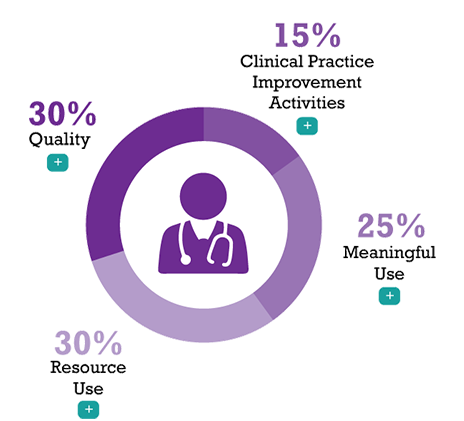
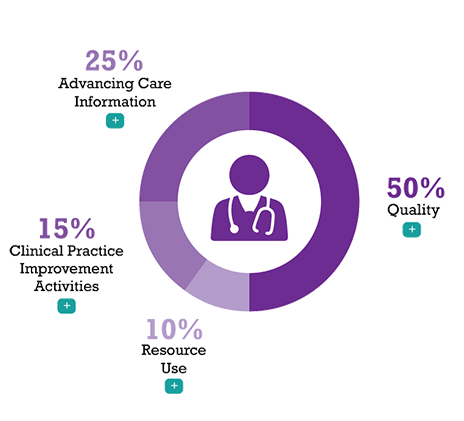
added piechart and map

Changed region(s): [[0.0, 0.0309, 0.9655, 1.0]]

diff --git a/modals/proposed_rule.html b/modals/proposed_rule.html
@@ -8,7 +8,7 @@
       <div class="modal-body">
        The Centers for Medicare and Medicaid Services (CMS) has issued proposed regulations around MACRA. 
        SHM is reviewing the proposals and will be providing comments back to CMS. 
-       As the rules are finalized later this year, this site will be update with more information about the programs and what you need to do. 
+       As the rules are finalized later this year, this site will be updated with more information about the programs and what you need to do. 
        For more information about the proposed rule, read CMS&rsquo; <a href="https://www.cms.gov/Medicare/Quality-Initiatives-Patient-Assessment-Instruments/Value-Based-Programs/MACRA-MIPS-and-APMs/NPRM-QPP-Fact-Sheet.pdf">Fact Sheet</a>.
       </div>
       <div class="modal-footer">

diff --git a/index.php b/index.php
@@ -181,15 +181,14 @@
                     For the elements built from existing programs, such as PQRS, the physician value-based payment modifier, and Meaningful Use, hospitalists can expect similar policies in the MIPS. However, <a href="" data-toggle="modal" data-target="#cms">CMS</a> will be issuing the 
                     foundational rules for the MIPS this year which will provide more detail and clarity to the program. Although the proportional weights of the domains can change, generally MIPS scoring will be based on a combination of 
                     performance across these areas.</p>
-                    <p style="margin-top:20px;font-size:1.4em;"><strong style="color:purple">Breakdown of the MIPS Categories</strong></p>
+                    <p style="margin-top:20px;font-size:1.4em;"><strong style="color:purple">Breakdown of the MIPS Categories for 2019 Payment</strong></p>
                     <img class="img-responsive img-centered" src="img/piechart.png" usemap="#Map" border="0" >  
                     <map name="Map">
-                      <area shape="poly" data-toggle="modal" data-target="#quality" coords="5,0,197,1,203,129,126,170,114,254,1,287,2,1" href="">
-                      <area shape="poly" data-toggle="modal" data-target="#clinical_performance" coords="203,3,461,4,281,171,255,150,234,138,205,134,203,3" href="#ClinicalPractice">
-                      <area shape="poly" data-toggle="modal" data-target="#meaningful" coords="284,176,460,13,455,410,333,415,262,301,290,268,296,229,292,200,285,179" href="#MeaningfulUse">
-                      <area shape="poly" data-toggle="modal" data-target="#resource" coords="2,293,118,259,137,284,170,311,210,317,256,305,326,414,4,418,3,294" href="#ResourceUse">
+                      <area shape="poly" data-toggle="modal" data-target="#quality" coords="253,4,456,3,457,414,373,412,259,412,255,133,250,5" href="">
+                      <area shape="poly" data-toggle="modal" data-target="#clinical_performance" coords="62,206,133,210,177,295,95,383,66,421,3,420,1,204" href="#ClinicalPractice">
+                      <area shape="poly" data-toggle="modal" data-target="#meaningful" coords="3,2,246,2,243,96,146,197,40,198,4,197,0,188,2,166,1,151" href="#MeaningfulUse">
+                      <area shape="poly" data-toggle="modal" data-target="#resource" coords="70,417,181,286,192,297,206,305,234,313,250,312,252,420,4,418,2,418" href="#ResourceUse">
                     </map>
-                   
                 </div>
             </div>
         </div>
